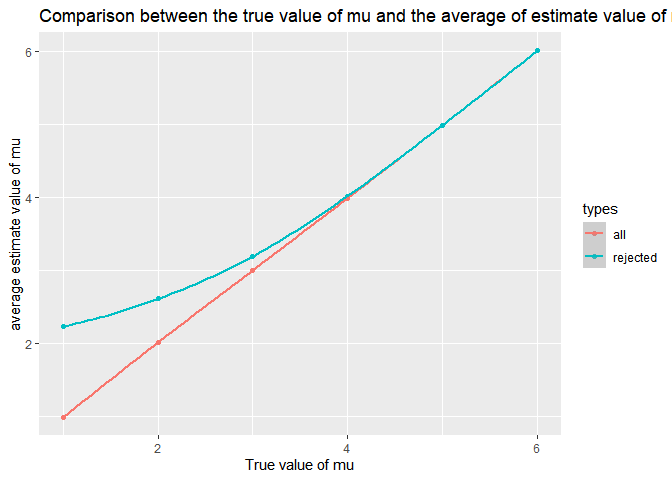
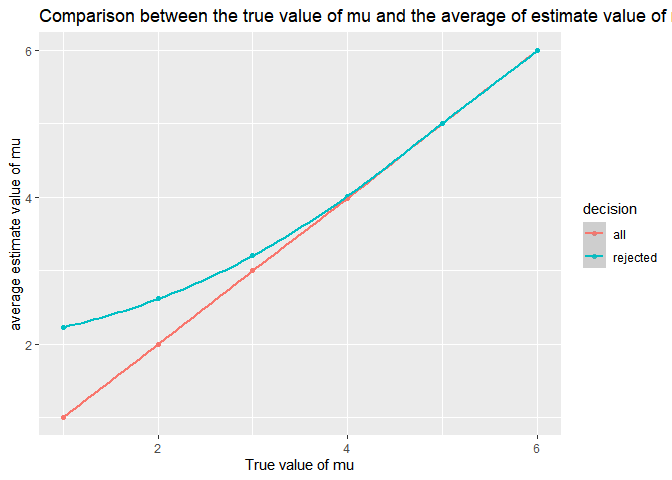
Problem 2 - last edits

diff --git a/p8105_hw5_nc2894.md b/p8105_hw5_nc2894.md
@@ -17,6 +17,13 @@ library(tidyverse)
     ## x dplyr::filter() masks stats::filter()
     ## x dplyr::lag()    masks stats::lag()
 
+# Problem 1
+
+The raw data show data about homicides in 50 large U.S. cities. More
+specifically, the data include the proportions of homicides that did and
+did not result in an arrest across geographical regions and the racial
+disparities in arrest rates across different areas.
+
 # Problem 2
 
 ``` r
@@ -260,33 +267,24 @@ df = tibble(files = list.files(path = "./data", full.names = TRUE)) %>%
     ## )
 
 ``` r
-df
-```
-
-    ## # A tibble: 160 x 4
-    ##    arm        id  week observations
-    ##    <fct>   <dbl> <dbl>        <dbl>
-    ##  1 control     1     1         0.2 
-    ##  2 control     1     2        -1.31
-    ##  3 control     1     3         0.66
-    ##  4 control     1     4         1.96
-    ##  5 control     1     5         0.23
-    ##  6 control     1     6         1.09
-    ##  7 control     1     7         0.05
-    ##  8 control     1     8         1.94
-    ##  9 control     2     1         1.13
-    ## 10 control     2     2        -0.88
-    ## # ... with 150 more rows
-
-``` r
 plot = df %>%
-  ggplot(aes(x = week, y = observations, group = interaction(id, arm), color = arm)) +
+  ggplot(aes(x = week, y = observations, group = interaction(id,arm), color = arm)) +
   geom_line() + labs(title = "Observations on each subject in experimental and control arms", x = "week", y = "observations")
 
 plot
 ```
 
 ![](p8105_hw5_nc2894_files/figure-gfm/unnamed-chunk-3-1.png)<!-- -->
+Comment: The plot shows that the observed values for the control group
+and experimental group are similar in the beginning (week 1\~2).
+However, the observed values for the experimental group show an overall
+increasing trend and generally start getting bigger than the observed
+values for the control group from around week 2\~3. As the experimental
+group’s observed values show an increasing trend, the gap between the
+experimental and control group gets bigger as the weeks progress. By
+week 8, the gap between the two groups is the largest. The observed
+values for the control group are fairly consistent and stay within the
+bounds of -2.5 to 4.
 
 # Problem 3
 
@@ -311,7 +309,7 @@ sim_ttest(0)
     ## # A tibble: 1 x 2
     ##   estimate p.value
     ##      <dbl>   <dbl>
-    ## 1   -0.902   0.334
+    ## 1    0.556   0.638
 
 ### Simulations 5000 times for mu = 0
 
@@ -344,14 +342,14 @@ test_power =
   )) %>%
   group_by(mu) %>%
   summarize(
-    total_decision = n(), 
-    total_reject = sum(decision == "rejected")
+    finaldecision = n(), 
+    finalreject = sum(decision == "rejected")
   ) %>%
   mutate(
-    prop_tests = map2(.x = total_reject, .y = total_decision, ~prop.test(x = .x, n = .y)), 
+    prop_tests = map2(.x = finalreject, .y = finaldecision, ~prop.test(x = .x, n = .y)), 
     tidy_tests = map(.x = prop_tests, ~broom::tidy(.x))
   ) %>%
-  select(mu, total_decision, total_reject, tidy_tests) %>%
+  select(mu, finaldecision, finalreject, tidy_tests) %>%
   unnest(tidy_tests) %>%
   select(mu, estimate, conf.low, conf.high) %>%
   rename(power = estimate)
@@ -366,11 +364,11 @@ test_power
     ## # A tibble: 6 x 4
     ##      mu power conf.low conf.high
     ##   <dbl> <dbl>    <dbl>     <dbl>
-    ## 1     1 0.184    0.173     0.195
-    ## 2     2 0.572    0.558     0.586
-    ## 3     3 0.889    0.880     0.897
-    ## 4     4 0.989    0.985     0.991
-    ## 5     5 1        0.999     1    
+    ## 1     1 0.188    0.177     0.199
+    ## 2     2 0.562    0.549     0.576
+    ## 3     3 0.882    0.872     0.890
+    ## 4     4 0.988    0.984     0.991
+    ## 5     5 0.999    0.998     1.00 
     ## 6     6 1        0.999     1
 
 ##### (2) step 2 of making plot 1
@@ -437,10 +435,10 @@ plot_2 =
   left_join(all_null, rejected_null, by = "mu") %>%
   pivot_longer(
     all:rejected, 
-    names_to = "types", 
+    names_to = "decision", 
     values_to = "average_mu_estimate"
   ) %>%
-  ggplot(aes(x = mu, y = average_mu_estimate, color = types)) + 
+  ggplot(aes(x = mu, y = average_mu_estimate, color = decision)) + 
   geom_point() +
   geom_smooth() +
   labs(title = "Comparison between the true value of mu and the average of estimate value of mu", x = "True value of mu", y = "average estimate value of mu")
@@ -479,6 +477,6 @@ plot_2
 ![](p8105_hw5_nc2894_files/figure-gfm/unnamed-chunk-10-1.png)<!-- -->
 Comment: The sample average of mu across tests for which the null is
 rejected is greater than the true value of mu until the true value of mu
-reached 4. This makes sense because as the effect size increases, the
+reaches 4. This makes sense because as the effect size increases, the
 power of the test increases as well, and when the effect size is around
 4, the power of the test also reaches its maximum value of 1.
